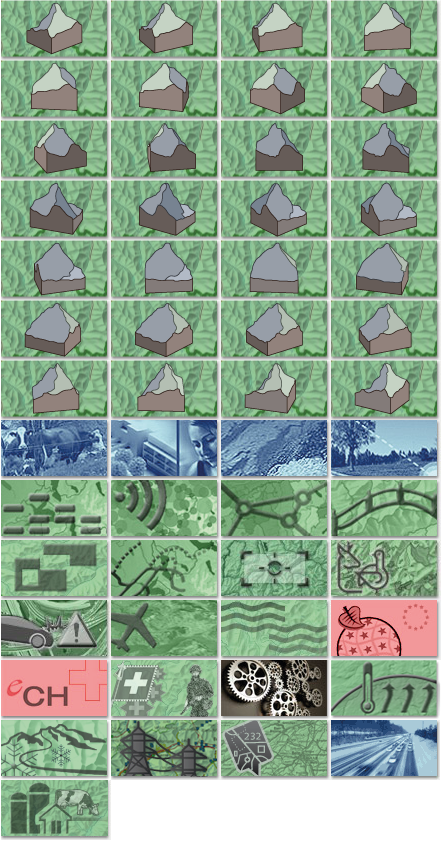
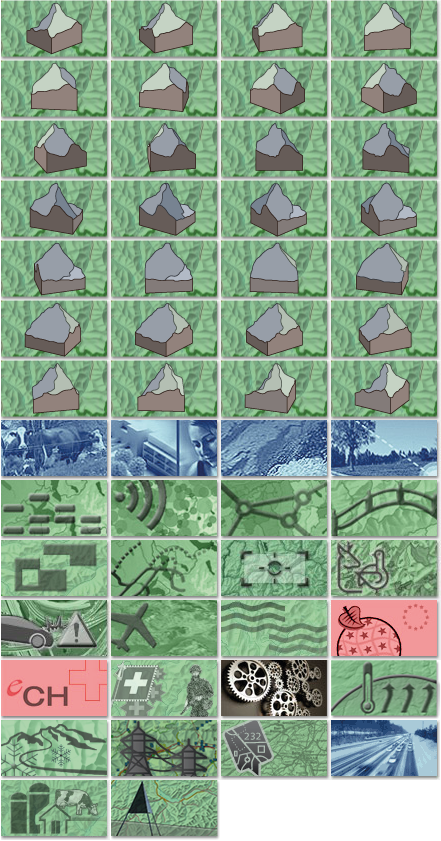
Add new topic geodesy (picture and translations) db is ready

Changed region(s): [[0.1179, 0.9275, 0.5011, 1.0]]

diff --git a/src/components/topic/style/topic.less b/src/components/topic/style/topic.less
@@ -210,7 +210,11 @@
     background-position: -220px -660px;
   }
 
-  .ga-topics-sprite-geothermie  {
+  .ga-topics-sprite-geodesy {
+    background-position: -110px -780px;
+  }
+
+  .ga-topics-sprite-geothermie {
     background-position: -330px -660px;
   }
 
